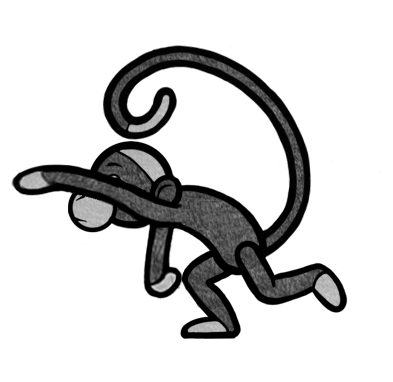
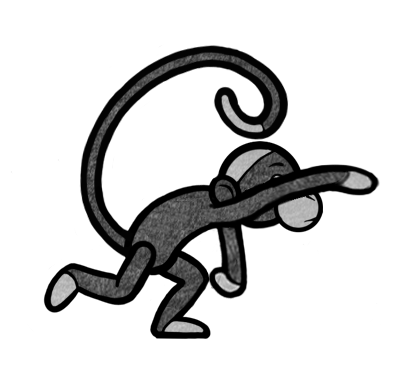
throwing anim in

diff --git a/MonkeyDomeBuild/Assets/Scripts/Actor.cs b/MonkeyDomeBuild/Assets/Scripts/Actor.cs
@@ -833,6 +833,7 @@ public class Actor : MonoBehaviour
             animator.SetBool("IsWalking", false);
             animator.SetBool("IsIdle", true);
         }
+        animator.SetBool("IsThrowing", isCharging);
     }
     public void GorillaDash()
     {
